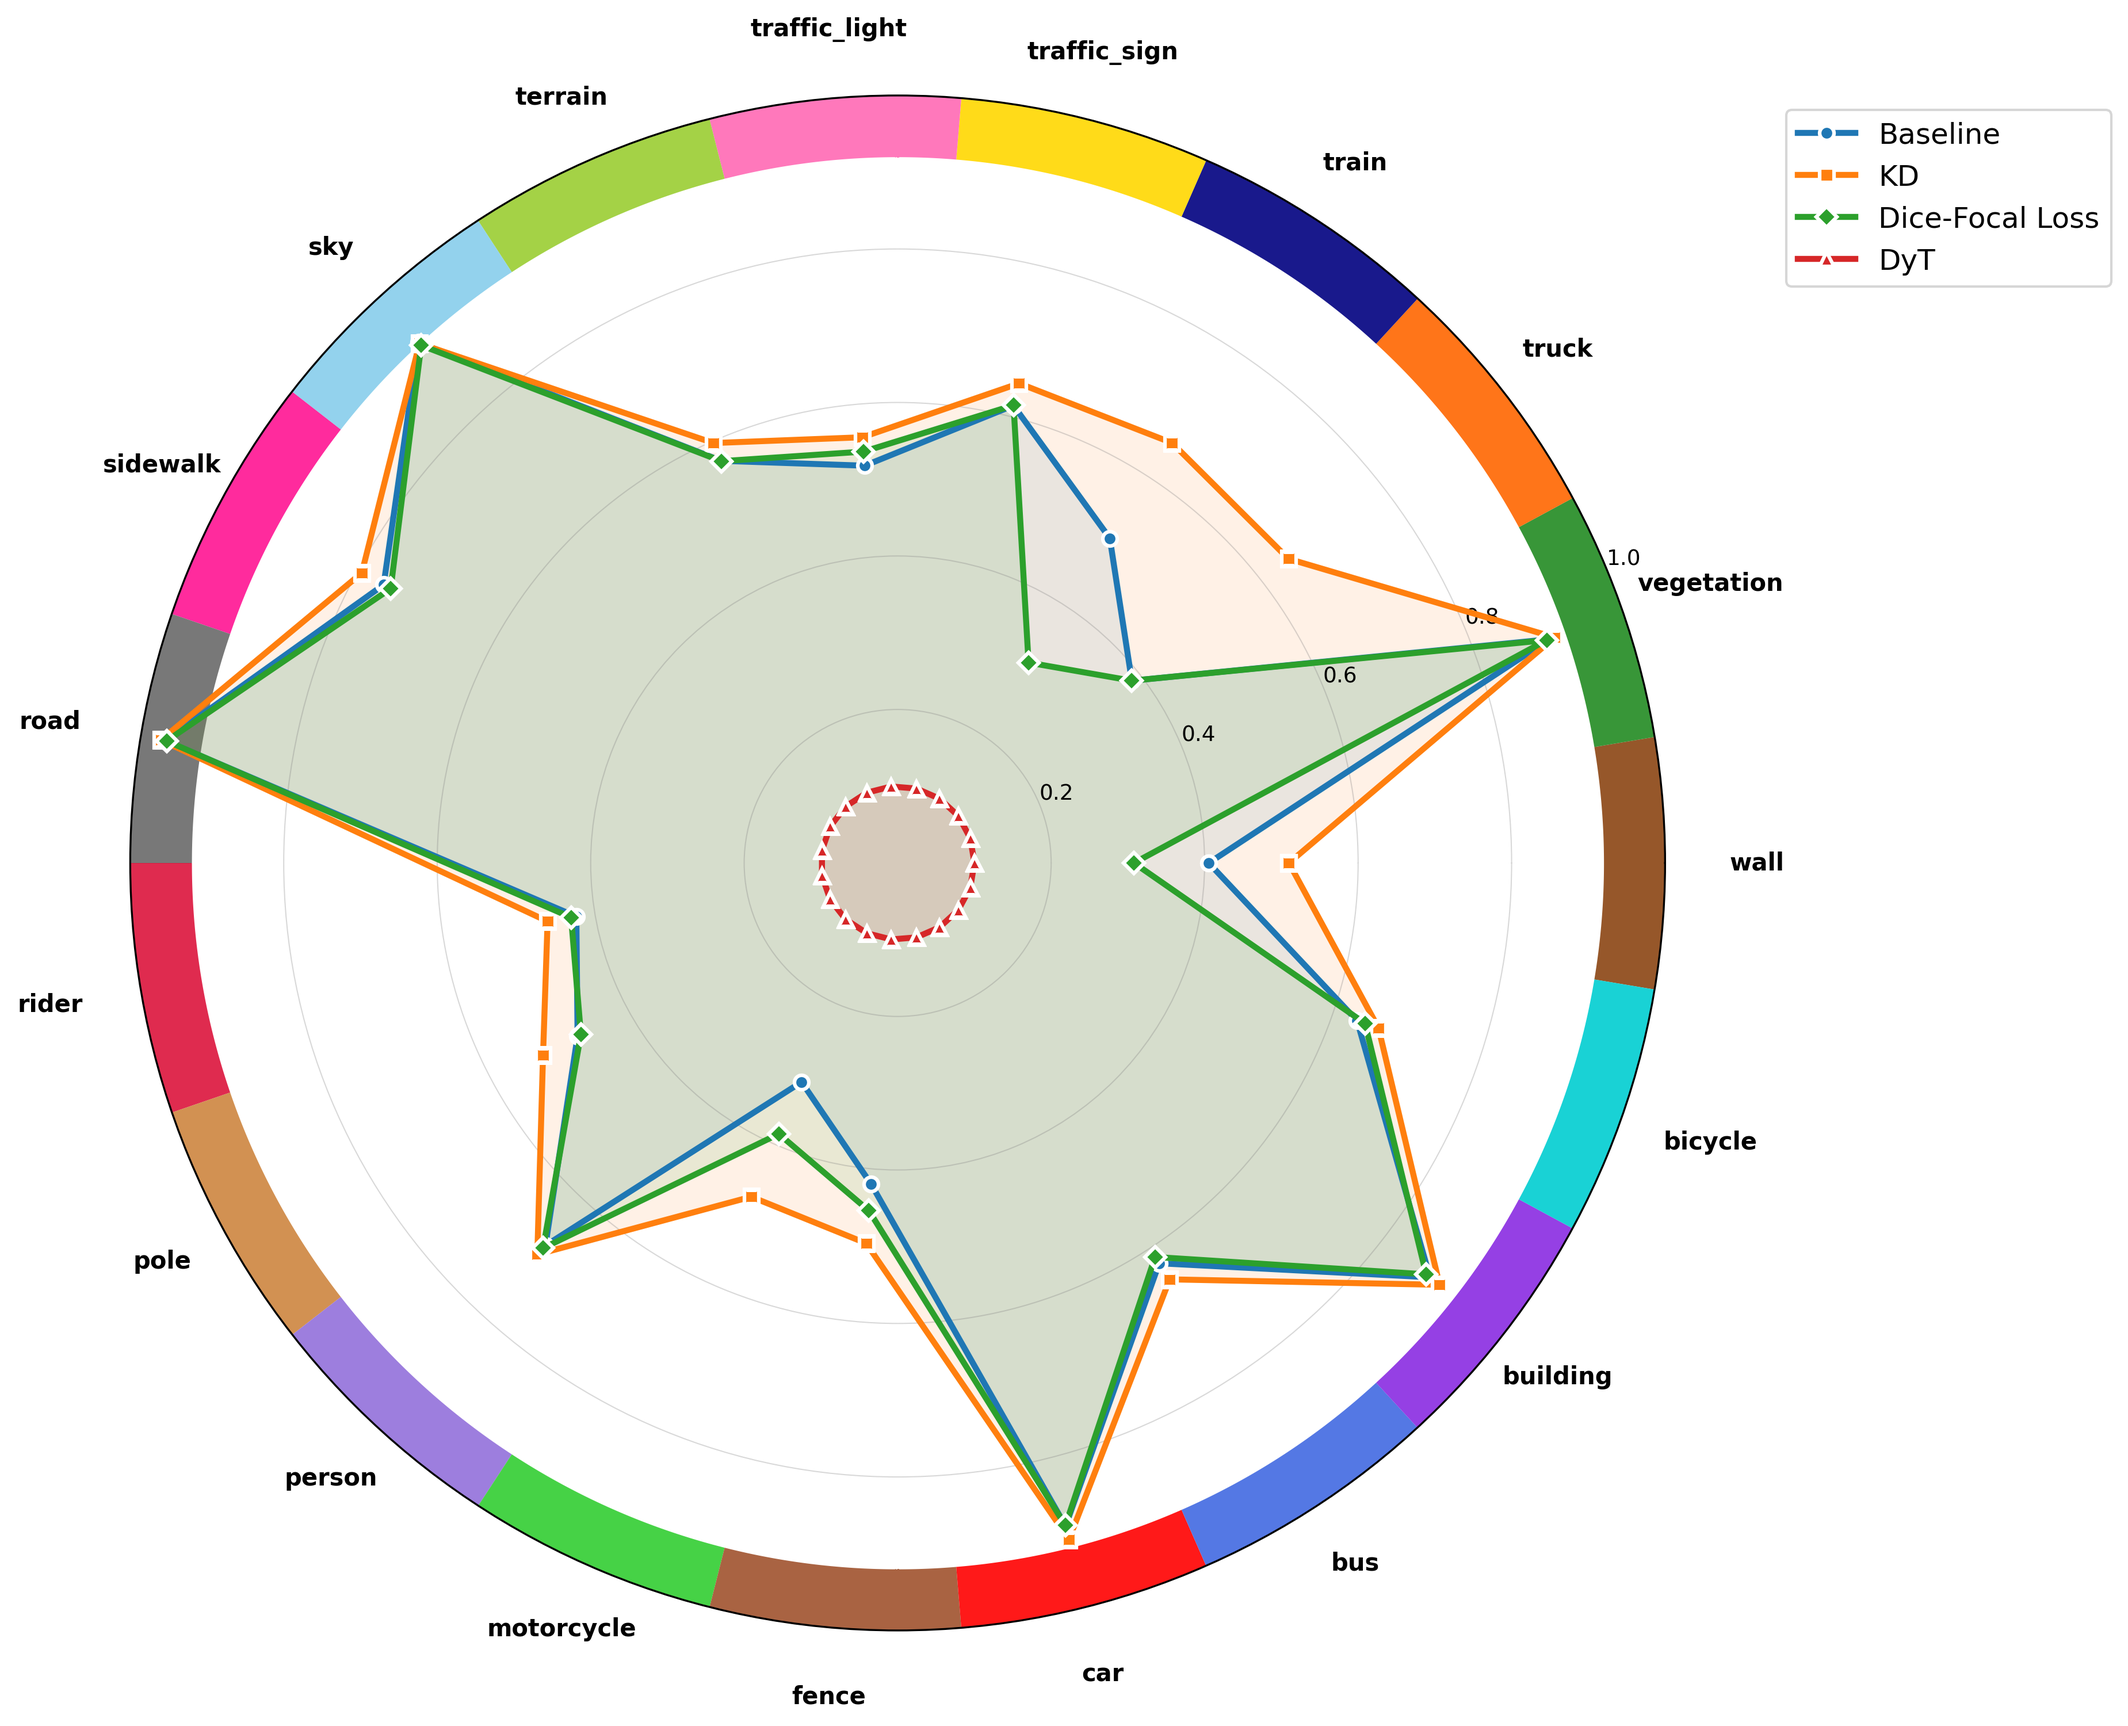
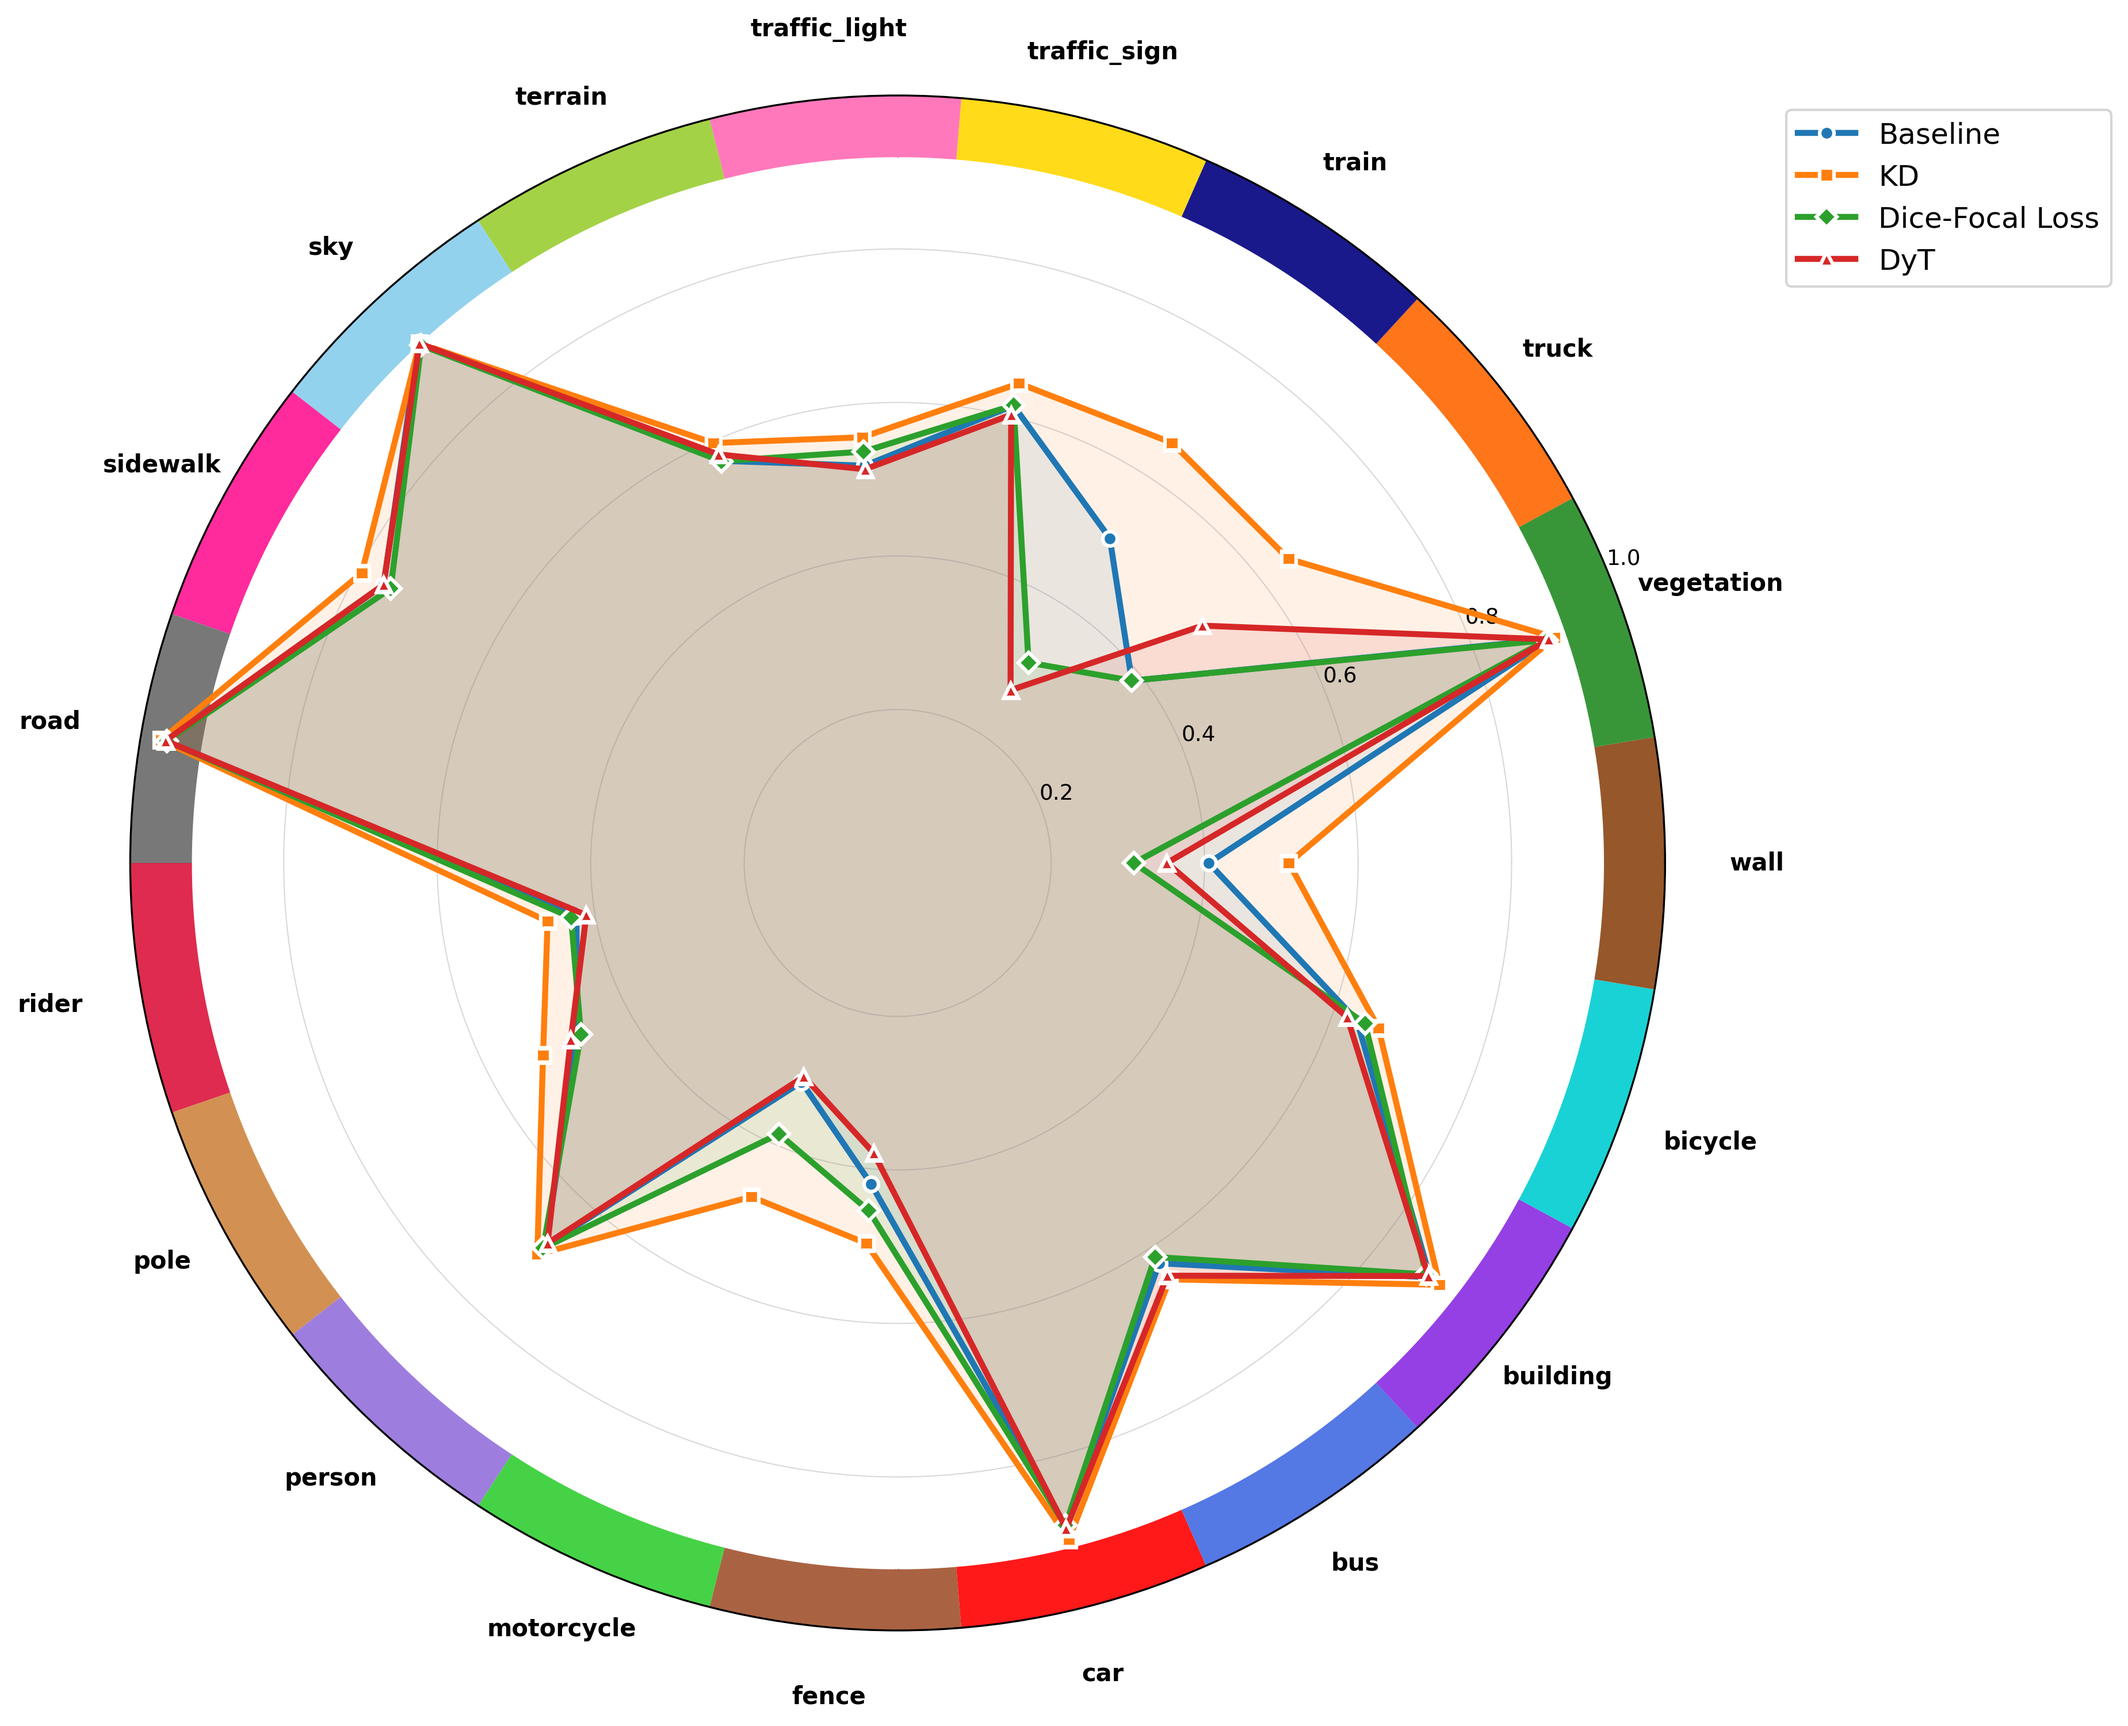
final commit

diff --git a/src/utils/cls_iou.py b/src/utils/cls_iou.py
@@ -13,9 +13,9 @@ data = {
     'Dice-Focal Loss': [0.30795, 0.8943, 0.38665, 0.31183, 0.61517, 0.53784, 0.57167, 0.9167,
              0.75117, 0.96583, 0.4314, 0.46934, 0.68213, 0.38551, 0.45461,
              0.89049, 0.61329, 0.87269, 0.64389],
-    'DyT': [0.1, 0.1, 0.1, 0.1, 0.1, 0.1, 0.1, 0.1,
-             0.1, 0.1, 0.1, 0.1, 0.1, 0.1, 0.1,
-             0.1, 0.1, 0.1, 0.1]
+    'DyT': [0.3509, 0.89715, 0.50346, 0.26896, 0.60238, 0.51475, 0.58125, 0.91997,
+             0.76173, 0.96734, 0.41127, 0.48433, 0.67363, 0.30398, 0.37921,
+             0.89471, 0.64243, 0.87624, 0.6194]
 }
 
 categories = ['wall', 'vegetation', 'truck', 'train', 'traffic_sign', 'traffic_light',
@@ -141,4 +141,3 @@ if __name__ == "__main__":
     fig = create_comparison_plot()
     fig.savefig('./cls_ious.png', dpi=300, bbox_inches='tight')
     plt.show()
-    
